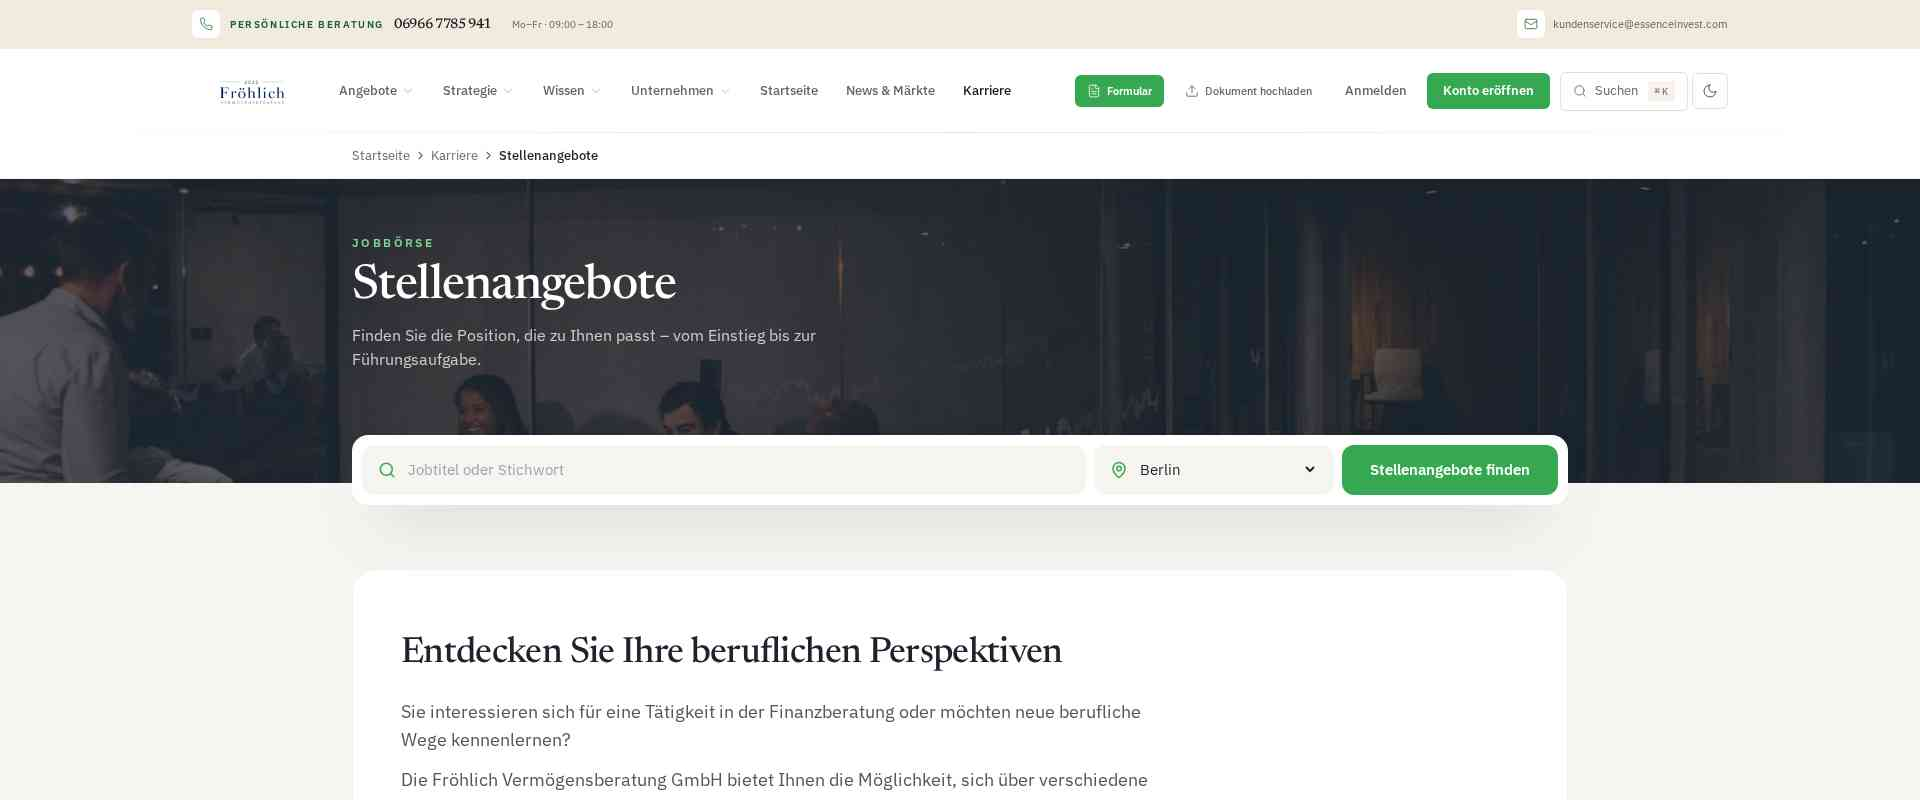
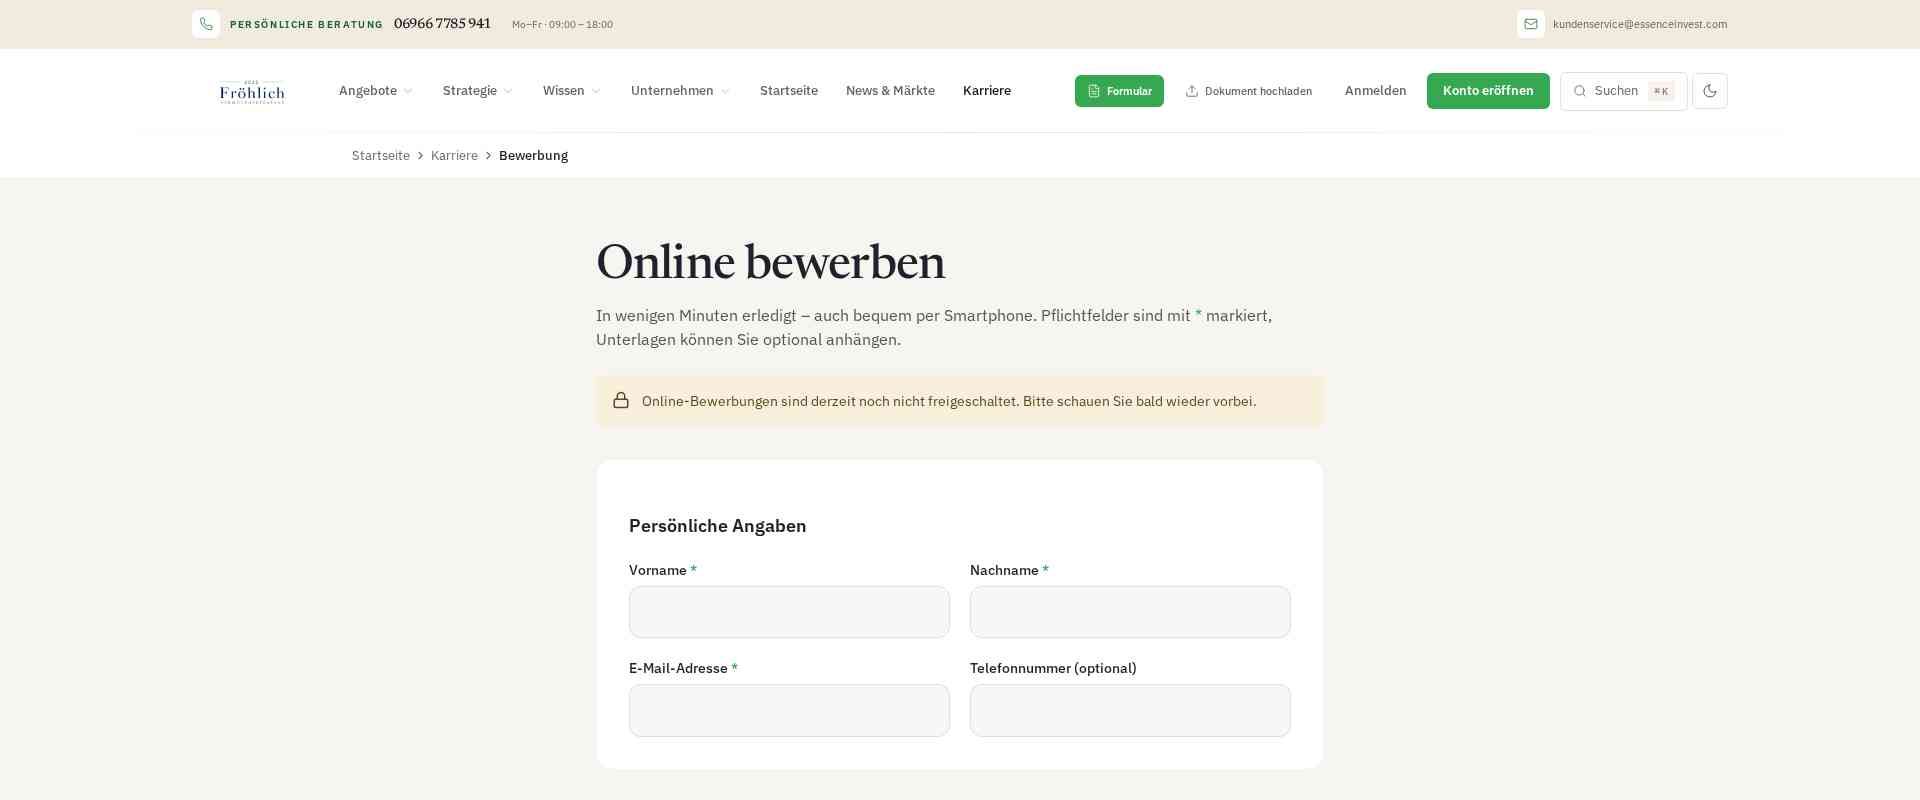
## Stellenbörse und Bewerbungsformular sind auf essenceinvest.com online
Stellenbörse und Bewerbungsformular sind auf essenceinvest.com online. Ich habe die Live-Seite danach ohne Anmeldung am PC und auf dem Smartphone geprüft. Bewerbungen sind nicht möglich.

- **Bewerbungen gesperrt:** Das Formular zeigt den Hinweis „Online-Bewerbungen sind derzeit noch nicht freigeschaltet“, und „Bewerbung absenden“ ist nicht anklickbar. Auch ein direkter Versuch über die Schnittstelle wird abgelehnt.
- **Stellenbörse:** Sie zeigt „Entdecken Sie Ihre beruflichen Perspektiven“. Bad Kreuznach, Berlin, Frankfurt am Main und Hamburg sind auswählbar, zum Beispiel erscheint bei Hamburg „Für Hamburg sind derzeit keine Stellenangebote veröffentlicht.“
- **Neues Formular:** Es enthält das Feld „Gewünschter Arbeitsort“ mit den vier Städten, und die Telefonnummer ist optional.
- **Stellen:** Alle 16 sind weiterhin private Entwürfe. Keine ist öffentlich sichtbar, auch nicht über die direkte Adresse.
- **Unverändert:** Das Original-Logo und der grüne Karriere-Balken sind da, auf dem Smartphone passt alles in die Breite. Das Hamburg-Fenster erschien beim ersten Besuch am PC. Am Smartphone kam es im selben Prüfdurchlauf nicht erneut, weil es nur einmal pro Sitzung erscheint.

- Next Action Items:
  - **Stellen freigeben**: Veröffentliche die von mir ausgewählten Stellen und prüfe danach live, dass die Stellenkarten erscheinen
  - **Bewerbungen freischalten**: Schalte die Bewerbungsfunktion frei, sobald ich es ausdrücklich bestätige, und teste danach eine Live-Bewerbung
[…]

diff --git a/memory/PRD.md b/memory/PRD.md
@@ -238,6 +238,7 @@ Siehe `/app/memory/test_credentials.md`
 - 2026-10-27 ~15:10: Stellenbörse (JobsPerspectives) auf essenceinvest.com veröffentlicht (main.4de9ddc0.js). Live geprüft PC + Smartphone ohne Anmeldung. 16 Entwürfe privat, Bewerbungen aus.
 - 2026-10-27: Stellenkarten mit „Stelle ansehen“ + grünem „Jetzt bewerben“ (inaktiv solange applications_enabled=false). Bewerbungsformular: Telefon optional, neues Pflichtfeld „Gewünschter Arbeitsort“ (preferred_location, aus Stelle vorausgewählt), Stelle per ?stelle= vorausgewählt, Berufserfahrung/Eintritt aus Formular entfernt. Backend + Recruiting-Detail zeigen Arbeitsort. Test iteration_86: 100 %. Nur Vorschau.
 - 2026-10-27: Mitarbeiter (Staff) dürfen in der Vorschau Testbewerbungen auch für Entwurfsstellen absenden (Bewerbungen müssen trotzdem aktiviert sein). E2E-Test Vorschau: Bewerbungen kurz aktiviert → Testbewerbung (Berater Hamburg, PDF) 201, im Dashboard sichtbar, Stelle/Arbeitsort korrekt, PDF-Download ok (anonym 401), Mails ohne Fehler versendet → wieder deaktiviert, Testbewerbung endgültig gelöscht (0 Bewerbungen, 0 Datei-Chunks), Löschprotokoll-Eintrag.
+- 2026-10-27 ~15:35: Stellenbörse + Bewerbungsformular auf essenceinvest.com veröffentlicht (main.3adb90e9.js). Live geprüft PC + Smartphone: 4 Standorte wählbar, keine Stellen öffentlich, Formular gesperrt, API-Bewerbung 403. 16 Entwürfe, Bewerbungen aus.
 
 
 ## 19. Changelog 2026-10-27 (Karriere-Einstieg auf der Hauptseite)
